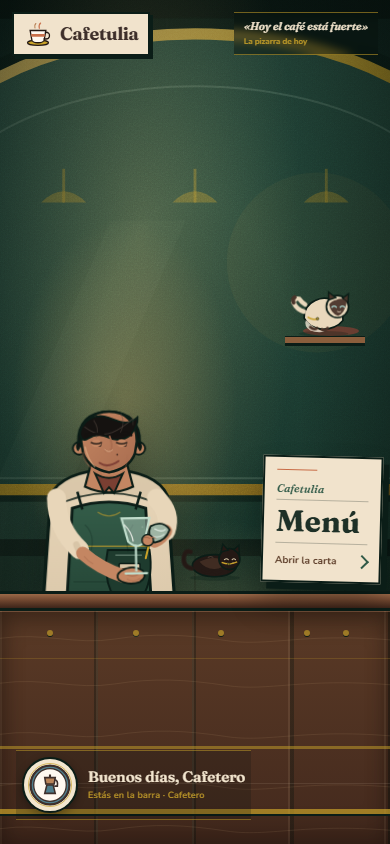
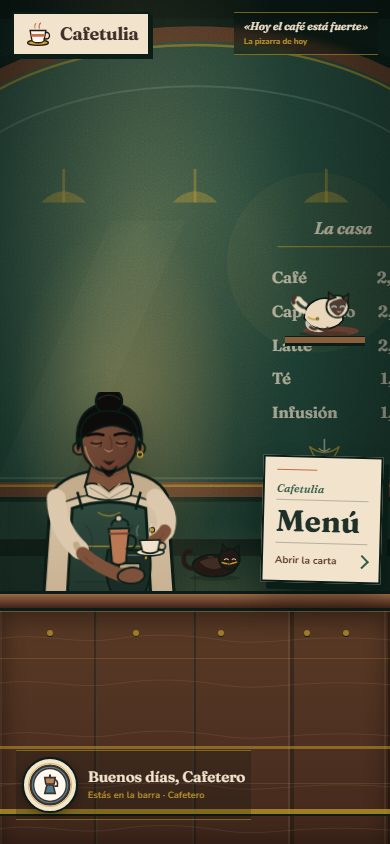
feat: seguir bocetos de baristas y pizarra de cafe

diff --git a/apps/web/src/components/TitleBarBarista.tsx b/apps/web/src/components/TitleBarBarista.tsx
@@ -85,6 +85,7 @@ export const BARISTA_VARIANTS: BaristaVariant[] = [
     apronShade: '#1A2C25',
     accent: '#A86A4A',
     hairStyle: 'bun',
+    earring: true,
   },
 ];
 
@@ -161,7 +162,10 @@ export function TitleBarBarista({
           opacity="0.8"
         />
         <path d="M122 112 Q150 130 178 112 L188 150 Q150 168 112 150 Z" fill={variant.skin} stroke="#0B1D17" strokeWidth="3.5" />
-        <path d="M128 129 Q150 143 172 129 L158 160 L150 151 L142 160 Z" fill={variant.accent} stroke="#0B1D17" strokeWidth="3" />
+        {/* Cuello de camisa abierto, sin pañuelo que parezca barba */}
+        <path d="M112 148 Q128 138 150 158 Q172 138 188 148 L184 164 Q150 178 116 164 Z" fill={variant.shirt} stroke="#0B1D17" strokeWidth="2.8" />
+        <path d="M132 145 L150 160 L168 145" fill="none" stroke={variant.shirtShade} strokeWidth="2.2" />
+        <path d="M119 151 L150 169 L181 151" fill="none" stroke="#0B1D17" strokeWidth="1.4" opacity="0.45" />
 
         {/* Delantal y herramientas */}
         <path
@@ -203,10 +207,15 @@ export function TitleBarBarista({
             strokeWidth="4"
           />
 
+          {/* La capa frontal se dibuja después de la cara para que no queden claros de piel en el pelo. */}
+          {isForward && <ForwardFront variant={variant} />}
+          {isWaves && <WavesFront variant={variant} />}
+          {isCurls && <CurlsFront variant={variant} />}
+          {hairStyle === 'bun' && <BunFront variant={variant} />}
+
           {isForward && <ForwardFringe variant={variant} />}
           {isWaves && <WavesFringe variant={variant} />}
           {isCurls && <CurlsFringe variant={variant} />}
-          {hairStyle === 'bun' && <BunFringe variant={variant} />}
 
           <path d="M108 95 Q113 121 139 129" fill="none" stroke={variant.skinShade} strokeWidth="2.6" opacity="0.36" />
           <path d="M178 100 Q181 115 171 126" fill="none" stroke={variant.skinShade} strokeWidth="2" opacity="0.3" />
@@ -233,9 +242,9 @@ export function TitleBarBarista({
 
           {variant.glasses && (
             <g fill="none" stroke="#2A211D" strokeWidth="2">
-              <rect x="120" y="76" width="22" height="15" rx="6" />
-              <rect x="158" y="76" width="22" height="15" rx="6" />
-              <path d="M142 82 H158" />
+              <circle cx="131" cy="82" r="11" />
+              <circle cx="169" cy="82" r="11" />
+              <path d="M142 81 Q150 77 158 81" />
             </g>
           )}
 
@@ -263,6 +272,13 @@ export function TitleBarBarista({
           <path d="M143 120 Q151 124 159 117" fill="none" stroke={variant.skinShade} strokeWidth="1.7" opacity="0.6" />
           <path d="M136 112 Q141 117 147 118" fill="none" stroke="#7D3F35" strokeWidth="1.2" opacity="0.45" />
           <path d="M137 130 Q150 135 163 129" fill="none" stroke={variant.skinShade} strokeWidth="1.5" opacity="0.25" />
+
+          {variant.id === 'noche' && (
+            <g fill={variant.hair} stroke="#0B1D17" strokeWidth="1.6">
+              <path d="M137 117 Q150 131 163 117 Q160 129 150 134 Q140 129 137 117 Z" opacity="0.9" />
+              <path d="M141 108 Q150 113 159 108 Q154 115 150 115 Q146 115 141 108 Z" opacity="0.75" strokeWidth="1.2" />
+            </g>
+          )}
         </g>
       </g>
 
@@ -286,12 +302,56 @@ function ForwardHair({ variant }: { variant: BaristaVariant }): React.ReactEleme
   );
 }
 
+function ForwardFront({ variant }: { variant: BaristaVariant }): React.ReactElement {
+  return (
+    <path
+      d="M102 80 C101 48 117 28 150 28 C183 28 199 48 198 80 C191 65 179 57 165 54 C151 51 137 55 125 62 C114 69 106 76 102 80 Z"
+      fill={variant.hair}
+      stroke="#0B1D17"
+      strokeWidth="3"
+    />
+  );
+}
+
+function WavesFront({ variant }: { variant: BaristaVariant }): React.ReactElement {
+  return (
+    <path
+      d="M104 82 C100 48 117 29 150 29 C183 29 200 48 196 82 C190 68 179 60 166 57 C157 54 153 52 150 47 C147 52 143 54 134 57 C121 60 110 68 104 82 Z"
+      fill={variant.hair}
+      stroke="#0B1D17"
+      strokeWidth="3"
+    />
+  );
+}
+
+function CurlsFront({ variant }: { variant: BaristaVariant }): React.ReactElement {
+  return (
+    <path
+      d="M105 82 C100 47 116 28 150 28 C184 28 200 47 195 82 C188 69 177 62 165 58 C154 55 146 56 136 59 C123 63 111 71 105 82 Z"
+      fill={variant.hair}
+      stroke="#0B1D17"
+      strokeWidth="3"
+    />
+  );
+}
+
+function BunFront({ variant }: { variant: BaristaVariant }): React.ReactElement {
+  return (
+    <path
+      d="M105 76 C102 47 119 30 150 30 C181 30 198 47 195 76 C188 64 177 57 164 54 C151 51 139 55 128 60 C118 65 109 70 105 76 Z"
+      fill={variant.hair}
+      stroke="#0B1D17"
+      strokeWidth="3"
+    />
+  );
+}
+
 function ForwardFringe({ variant }: { variant: BaristaVariant }): React.ReactElement {
   return (
     <g>
       {/* Flequillo barrido hacia delante, con raya lateral y mechones */}
       <path
-        d="M105 61 C111 44 127 35 144 39 C157 42 167 50 180 48 C187 47 192 43 195 40 C196 50 191 60 184 68 C173 77 159 77 147 71 C136 66 126 68 116 74 C109 79 105 72 104 66 Z"
+        d="M105 61 C111 44 127 35 144 39 C157 42 167 50 180 48 C186 47 190 45 192 44 C193 53 189 61 184 68 C173 77 159 77 147 71 C136 66 126 68 116 74 C109 79 105 72 104 66 Z"
         fill={variant.hair}
         stroke="#0B1D17"
         strokeWidth="2.8"
@@ -321,12 +381,12 @@ function WavesHair({ variant }: { variant: BaristaVariant }): React.ReactElement
 
 function WavesFringe({ variant }: { variant: BaristaVariant }): React.ReactElement {
   return (
-    <path
-      d="M103 58 Q112 36 133 31 Q155 26 174 38 Q190 48 195 66 Q176 56 160 54 Q144 51 130 56 Q116 63 107 71 Q102 64 103 58 Z"
-      fill={variant.hair}
-      stroke="#0B1D17"
-      strokeWidth="3"
-    />
+    <g fill={variant.hair} stroke="#0B1D17" strokeWidth="2.4">
+      {/* Raya al centro: solo un mechón, sin tapar la frente */}
+      <path d="M150 47 Q155 54 153 66 Q150 59 147 66 Q145 54 150 47 Z" />
+      <path d="M110 61 Q116 68 121 78 Q113 75 108 68 Z" opacity="0.9" />
+      <path d="M190 61 Q184 68 179 78 Q187 75 192 68 Z" opacity="0.9" />
+    </g>
   );
 }
 
@@ -373,17 +433,6 @@ function BunHair({ variant }: { variant: BaristaVariant }): React.ReactElement {
       <path d="M101 78 Q98 85 101 92 Q105 85 106 77 Z" strokeWidth="2.2" />
       <path d="M199 78 Q202 85 199 92 Q195 85 194 77 Z" strokeWidth="2.2" />
     </g>
-  );
-}
-
-function BunFringe({ variant }: { variant: BaristaVariant }): React.ReactElement {
-  return (
-    <path
-      d="M112 60 Q124 53 139 54 Q153 55 166 61 Q177 65 184 62 Q175 55 162 53 Q146 51 132 55 Q121 58 113 65 Z"
-      fill={variant.hair}
-      stroke="#0B1D17"
-      strokeWidth="2.4"
-    />
   );
 }
 

diff --git a/apps/web/src/components/TitleBarScene.tsx b/apps/web/src/components/TitleBarScene.tsx
@@ -172,8 +172,15 @@ export function TitleBarScene({
             <path
               d="M490 522 V214 A310 178 0 0 1 1110 214 V522 Z"
               fill="url(#tbMirror)"
-              stroke="url(#tbBrass)"
-              strokeWidth="12"
+              stroke="#6B432D"
+              strokeWidth="16"
+            />
+            <path
+              d="M498 518 V218 A302 170 0 0 1 1102 218 V518 Z"
+              fill="none"
+              stroke="#C8A12A"
+              strokeWidth="2.5"
+              opacity="0.7"
             />
             <path
               d="M520 510 V240 A280 148 0 0 1 1080 240 V510 Z"
@@ -184,6 +191,29 @@ export function TitleBarScene({
             />
             <path d="M590 510 L710 235 L790 235 L670 510 Z" fill="#6F9B83" opacity="0.08" />
             <circle cx="930" cy="280" r="96" fill="#D6A54F" opacity="0.07" />
+
+            {/* Pizarra de la casa */}
+            <g fill="#EFE3C9" fontFamily="Fraunces, serif">
+              <text x="958" y="250" textAnchor="middle" fontSize="18" opacity="0.9" fontStyle="italic">
+                La casa
+              </text>
+              <path d="M888 263 H1028" stroke="#C8A12A" strokeWidth="1.5" opacity="0.55" />
+              <g fontSize="17" opacity="0.82">
+                <text x="882" y="302">Café</text>
+                <text x="1032" y="302" textAnchor="end">2,00</text>
+                <text x="882" y="338">Capuchino</text>
+                <text x="1032" y="338" textAnchor="end">2,50</text>
+                <text x="882" y="374">Latte</text>
+                <text x="1032" y="374" textAnchor="end">2,50</text>
+                <text x="882" y="410">Té</text>
+                <text x="1032" y="410" textAnchor="end">1,50</text>
+                <text x="882" y="446">Infusión</text>
+                <text x="1032" y="446" textAnchor="end">1,50</text>
+              </g>
+              <path d="M922 476 Q938 489 954 476 Q944 498 938 498 Q932 498 922 476 Z" fill="none" stroke="#C8A12A" strokeWidth="1.4" opacity="0.65" />
+              <path d="M938 468 V480 M932 478 Q938 484 944 478" fill="none" stroke="#EFE3C9" strokeWidth="1.8" opacity="0.55" />
+            </g>
+
             {[0, 1, 2].map((i) => (
               <g key={`mirror-glow-${i}`} transform={`translate(${660 + i * 140} 180)`}>
                 <line x1="0" y1="0" x2="0" y2="36" stroke="#C8A12A" strokeWidth="3" opacity="0.4" />
@@ -418,15 +448,15 @@ export function TitleBarScene({
       </div>
 
       {/* Dos gatos de la casa: siamés en la estantería y oscuro en la barra */}
-      <div className="pointer-events-none absolute bottom-[59.3%] right-[6.5%] z-[3] h-2 w-20 border-y border-[#0B1D17] bg-[#8B5E3C] shadow-[0_2px_0_#0B1D17] sm:right-[17.5%] sm:w-28" />
-      <div className="pointer-events-none absolute bottom-[60.2%] right-[8%] z-[3] h-2.5 w-14 rounded-[50%] bg-[#7A3F32]/80 sm:right-[19%] sm:w-20" />
+      <div className="pointer-events-none absolute bottom-[59.3%] right-[6.5%] z-[3] h-2 w-20 border-y border-[#0B1D17] bg-[#8B5E3C] shadow-[0_2px_0_#0B1D17] sm:right-[16.5%] sm:w-32" />
+      <div className="pointer-events-none absolute bottom-[60.2%] right-[8%] z-[3] h-2.5 w-14 rounded-[50%] bg-[#7A3F32]/80 sm:right-[18.5%] sm:w-24" />
       <button
         type="button"
         data-testid="title-cat-siames"
         onClick={() => petCat('Miau. El siamés de la casa te mira con ojos azules.')}
         aria-label="Acariciar al gato siamés"
         title="Acariciar al siamés"
-        className="absolute bottom-[60%] right-[8%] z-[4] w-[72px] cursor-pointer text-left transition-transform hover:-translate-y-0.5 focus:outline-2 focus:outline-offset-4 focus:outline-[#F0D278] sm:right-[19%] sm:w-28"
+        className="absolute bottom-[60%] right-[8%] z-[4] w-[72px] cursor-pointer text-left transition-transform hover:-translate-y-0.5 focus:outline-2 focus:outline-offset-4 focus:outline-[#F0D278] sm:right-[18.5%] sm:w-32"
       >
         <SiameseCat reducedMotion={reducedMotion} />
       </button>
@@ -437,7 +467,7 @@ export function TitleBarScene({
         onClick={() => petCat('Miau. El gato oscuro ronronea desde la barra.')}
         aria-label="Acariciar al gato oscuro"
         title="Acariciar al gato oscuro"
-        className="absolute bottom-[31%] left-[55%] z-[4] w-[72px] -translate-x-1/2 cursor-pointer text-left transition-transform hover:-translate-y-0.5 focus:outline-2 focus:outline-offset-4 focus:outline-[#F0D278] sm:left-[69%] sm:w-24"
+        className="absolute bottom-[31%] left-[55%] z-[4] w-[72px] -translate-x-1/2 cursor-pointer text-left transition-transform hover:-translate-y-0.5 focus:outline-2 focus:outline-offset-4 focus:outline-[#F0D278] sm:left-[69%] sm:w-28"
       >
         <DarkCat reducedMotion={reducedMotion} />
       </button>

diff --git a/docs/SESIONES.md b/docs/SESIONES.md
@@ -5,6 +5,25 @@
 
 ---
 
+## Sesión 034 - 2026-11-23 - Baristas según los bocetos y pizarra de la casa
+
+**Objetivo:** dejar de corregir el pelo a ciegas y seguir las hojas de referencia del usuario.
+
+**Hecho:**
+- Usada la hoja detallada de baristas (frente, perfil, colores y acciones) y la hoja anotada para ajustar proporciones.
+- Añadida capa frontal de pelo después de la cara para eliminar los claros de piel y las medias calvas.
+- Pelo de Tú corto con flequillo lateral; novia con melena ondulada y raya al centro; rulos con gafas redondas; moño alto con perilla y pendientes.
+- Eliminado el pañuelo oscuro bajo la barbilla que se leía como una barba colgando.
+- Pizarra central con la carta de cafés, plantas, marco de madera y más detalle de cafetería.
+- Gatos recolocados y ampliados; siamés en repisa, gato oscuro en la barra.
+
+**Verificación:**
+- typecheck, lint, build y 3 E2E en verde.
+
+**Siguiente:** validar el flequillo de Tú en pantalla y afinar el trazo de las manos.
+
+---
+
 ## Sesión 033 - 2026-11-23 - Baristas rotativos, gatos y carta que crece
 
 **Objetivo:** pulir la portada con variación real de personajes, los dos gatos de la casa y una apertura de menú más viva.

diff --git a/docs/DECISIONES.md b/docs/DECISIONES.md
@@ -98,3 +98,4 @@ Estados posibles: **Cerrada**, **Pendiente**, **Aplazada**.
 | D-090 | 2026-11-23 | Portada v10: la barra del café | Cerrada | La portada es una escena de barra con barista secando una copa; el menú es una carta física que abre el panel de nombre, avatar, mesa rápida, salas y ayuda. Sin rejilla de tarjetas ni etiquetas decorativas en mayúsculas |
 | D-091 | 2026-11-23 | El barista de la portada es un personaje propio | Cerrada | Pelo negro con flequillo hacia delante, nariz marcada y lunar en su mejilla izquierda; sujeta la copa con una mano y la seca con la otra, con parpadeo, respiración, mirada a la carta y brillo en el cristal |
 | D-092 | 2026-11-23 | Baristas rotativos, gatos y apertura animada de la carta | Cerrada | Cuatro baristas con acciones de barra; rotación al recargar sin repetir el anterior; gato siamés y gato oscuro interactivos; la carta se expande en escala, recorte y perspectiva |
+| D-093 | 2026-11-23 | Baristas y escena guiados por los bocetos del usuario | Cerrada | Se usa la hoja detallada de baristas (frente/perfil/acciones) y la UI de Cafetulia como referencia de pizarra, plantas, gatos, madera y menú; se elimina el pañuelo oscuro que parecía barba |
